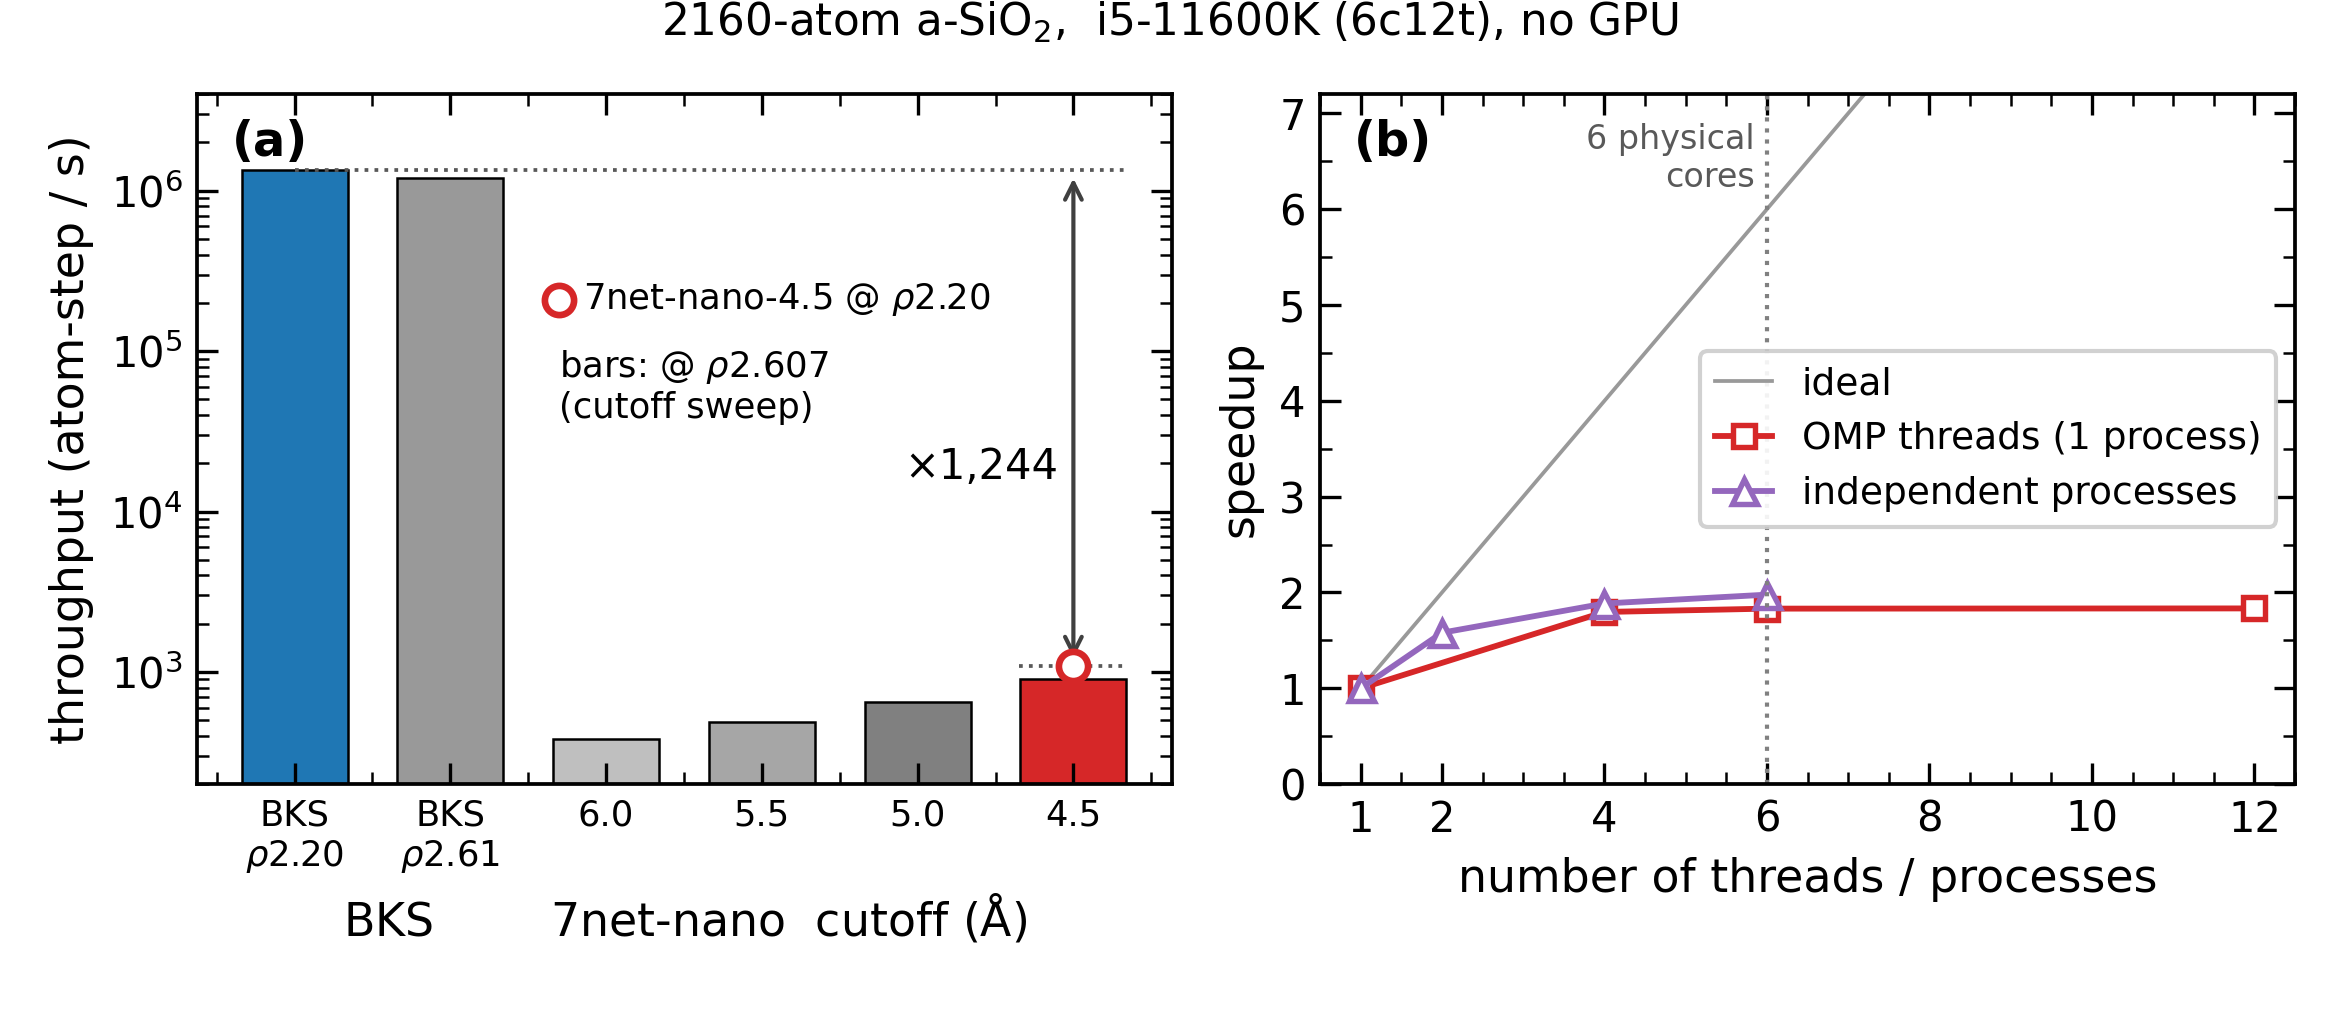
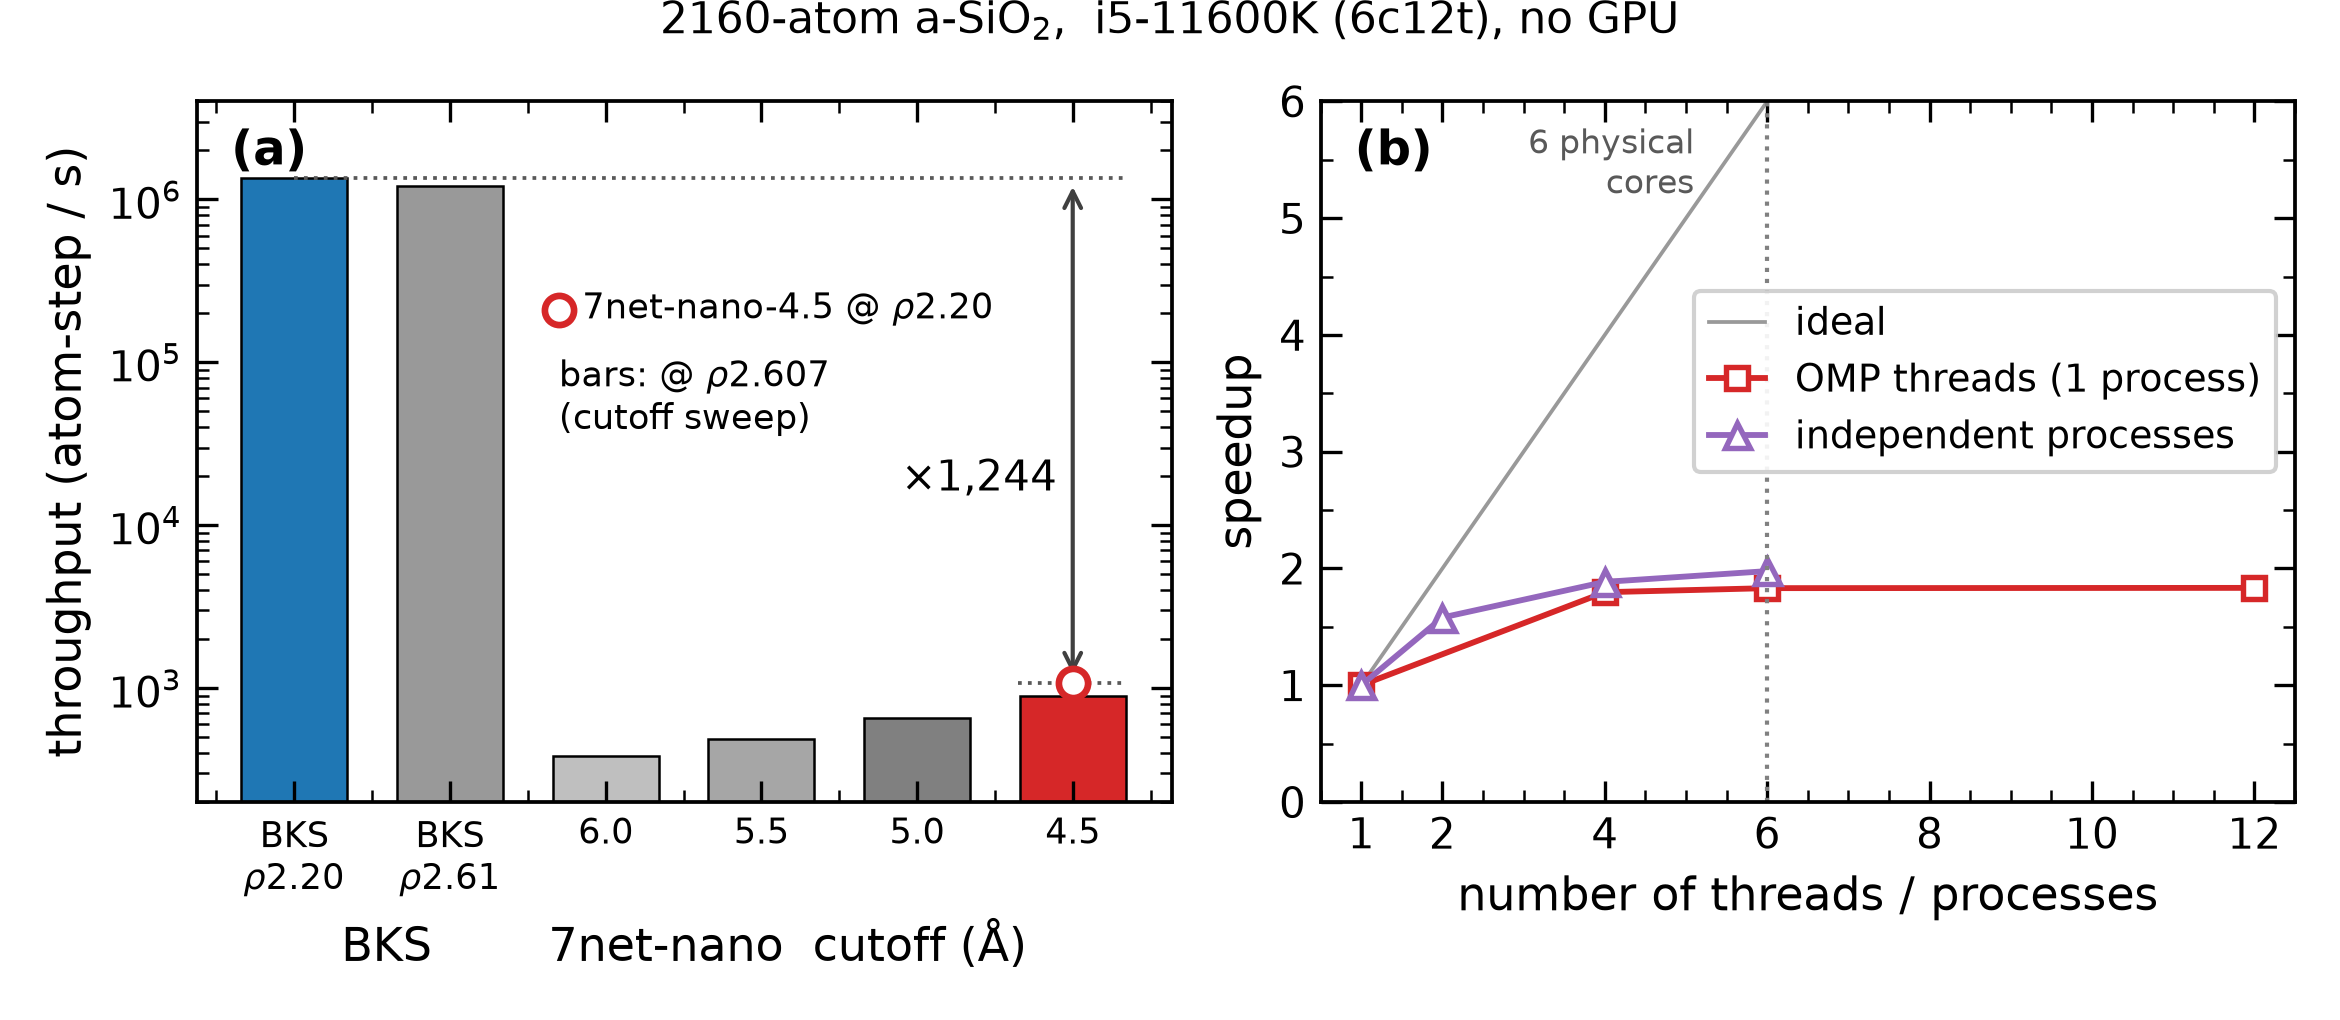
Consistency audit after the tail-on switch: found a v1 leak into RESULTS
Swept the repo for anything left stale by the tail-off -> tail-on change and by
the earlier rho=2.607 -> 2.20 restart. Five real problems.

1. fig_density.py's docstring still said "reported values are tail OFF" while
   the code reads ev_bks_scan_tail.txt. The file contradicted itself. Rewrote
   the docstring to state the tail-on grounds and to record that the original
   tail-off justification was circular.

2. RESULTS.md "lessons" section still claimed BKS is 5x more accurate on K0.
   With the tail on it is 2.7x. Fixed.

3. THE REAL FIND: RESULTS.md section 3(b) -- "the density drop is entirely
   explained by bond length, predicted -4.28 % vs measured -4.31 %, agreeing to
   0.03 %p" -- was carrying numbers from the DISCARDED rho=2.607 work
   (s2_relax/NOTE.md S2-3). There the comparison was Si-O 1.6123 -> 1.6360 with
   density 2.6071 -> 2.4948, i.e. the same structure relaxed by 7net at two
   volumes at 0 K. That is a clean apples-to-apples test and the claim was
   sound in its own context.

   The current section 3(b) is a completely different comparison: 300 K MD g(r)
   peak positions against 0 K equilibrium densities of two different potentials.
   The v1 numbers do not transfer. Recomputed honestly:

       prediction from mean Si-O (1.6147 -> 1.6369)   -4.01 %
       prediction from peak Si-O (1.605  -> 1.635 )   -5.40 %
       measured (2.3442 -> 2.2185)                    -5.36 %

   So the prediction swings 1.4 %p depending on which equally arbitrary
[…]

diff --git a/04_analysis/src/fig_speed.py b/04_analysis/src/fig_speed.py
@@ -77,11 +77,11 @@ b.plot(THREADS[0], THREADS[1] / THREADS[1][0], "s-", ms=5.5, c="tab:red",
 b.plot(REPLICA[0], REPLICA[1] / REPLICA[1][0], "^-", ms=6, c="tab:purple",
        mfc="w", mew=1.3, label="independent processes")
 b.axvline(6, ls=":", lw=1.0, c="0.5")
-b.text(5.85, 6.9, "6 physical\ncores", fontsize=8, c="0.35", va="top", ha="right")
-b.set_xlim(0.5, 12.5); b.set_ylim(0, 7.2)
+b.text(5.1, 5.8, "6 physical\ncores", fontsize=8, c="0.35", va="top", ha="right")
+b.set_xlim(0.5, 12.5); b.set_ylim(0, 6)
 b.set_xlabel("number of threads / processes"); b.set_ylabel("speedup")
 b.set_xticks([1, 2, 4, 6, 8, 10, 12])
-b.legend(loc="center right", framealpha=0.9)
+b.legend(bbox_to_anchor = (1, 0.6), loc="center right", framealpha=0.9)
 b.text(0.035, 0.91, "(b)", transform=b.transAxes, fontsize=11.5, fontweight="bold")
 
 for a_ in ax:

diff --git a/05_doc/RESULTS.md b/05_doc/RESULTS.md
@@ -188,9 +188,32 @@ tail ON을 택하는 적극적 근거:
 **(a) 결합길이는 PBE를 재현한다.** BKS 1.605 → 7net 1.635 (+1.9 %), AIMD 1.630.
 PBE 계열의 결합 과대추정을 그대로 물려받았다. MTP(npj 2024, PBE)의 1.63과도 일치.
 
-**(b) 밀도 하락은 전부 결합길이로 설명된다.** ρ ∝ d⁻³ 예측 −4.28 % vs 실측 −4.31 %
-(0.03 %p 차이). 사면체가 길어진 결합을 각도로 흡수해 `2d·sin(θ/2)` = Si–Si 거리를
-0.3 % 이내로 보존한다.
+**(b) 밀도 하락의 방향과 크기는 결합길이 신장으로 설명된다 — 단 정밀 일치를 주장하지 말 것.**
+
+ρ ∝ d⁻³ 예측이 **어느 d를 쓰느냐로 1.4 %p 움직인다**:
+
+| 예측 근거 | d(BKS) → d(7net) | ρ ∝ d⁻³ |
+|---|---|---|
+| 평균 Si–O (`*_stats.dat`) | 1.6147 → 1.6369 | −4.01 % |
+| 1피크 위치 (위 표) | 1.605 → 1.635 | −5.40 % |
+| **실측** (2.3442 → 2.2185) | | **−5.36 %** |
+
+큰 그림은 맞다(수 % 감소, 같은 부호, 같은 자릿수). 하지만 입력 선택 하나로 예측이
+−4.0 ~ −5.4 % 사이를 오가므로 **"결합길이만으로 완전히 설명된다"는 강한 주장은 못 한다.**
+
+> ⚠ **이전 판 정정 — 폐기된 v1 수치가 새어들어와 있었다.**
+> "예측 −4.28 % vs 실측 −4.31 %(0.03 %p 차이)"는 **ρ = 2.607 네트워크(폐기)** 의 결과다
+> (`02_run/s2_relax/NOTE.md` S2-3). 거기서는 Si–O 1.6123 → 1.6360, 밀도 2.6071 → 2.4948 로
+> **같은 구조를 7net으로 두 부피에서 이완한 0 K 비교**였고 그 맥락에서는 타당했다.
+> 현행 §3(b)는 **300 K MD의 g(r) 피크**와 **서로 다른 두 포텐셜의 0 K 평형밀도**를 잇는
+> 전혀 다른 비교다. v1 숫자를 그대로 옮겨 쓸 수 없다.
+>
+> ⚠ **더 근본적인 문제**: g(r)은 두 방법 모두 **ρ = 2.20 고정**에서 잰 값이고
+> 평형밀도는 별도의 0 K E–V 스캔에서 나온다. 서로 다른 계산의 양을 d⁻³로 잇는 건
+> 어디까지나 **휴리스틱**이다. 실제로 (d)의 Si–Si 1피크는 3.155 → 3.135 (−0.63 %)로
+> 거의 보존되는데, 망을 잇는 거리가 보존되면서 평형부피만 5 % 변한다는 건
+> 단순 등방 스케일링으로 설명되지 않는다. **각도 자유도가 흡수한다**가 정성적 답이지만
+> 정량 검증은 안 했다.
 
 **(c) O–Si–O는 평균으로는 변별력이 없다.** 세 방법이 109.38 / 109.41 / 109.47로 0.09° 안에 든다.
 정사면체 기하가 109.47°로 못 박기 때문이다. **차이는 폭에 있다** —
@@ -314,7 +337,7 @@ of the first peak"* 와 같은 방향.
    → **증상을 보고 추측하기 전에 잔차의 구조부터 볼 것.** 상수면 계통오차, 무작위면 잡음.
 8. **MLIP의 매끄러운 cutoff는 정확도가 아니라 미분가능성의 문제다.** 7net이 E–V에서
    BKS보다 18배 매끄러운 건 물리를 더 잘 알아서가 아니라 cutoff 함수 설계 덕이다.
-   반대로 K₀는 BKS가 5배 정확했다. 두 사실을 같이 말해야 정직한 비교다.
+   반대로 K₀는 BKS가 2.7배 정확했다. 두 사실을 같이 말해야 정직한 비교다.
 
 ---
 

diff --git a/05_doc/STATUS.md b/05_doc/STATUS.md
@@ -103,12 +103,17 @@ BKS       :  1.35 Matom-step/s @ρ=2.20 (6랭크)  → 배수 1,244×
 
 ## 남은 일
 
-1. `04_analysis/src/old_delete/` 삭제 (노트북에서 `rm -rf`)
+1. `04_analysis/src/old_delete/`, `04_analysis/fig/old_delete/` 삭제 (노트북에서 `rm -rf`)
+   그리고 `02_run/s2_relax/ev_bks_f1.04.log`, `ev_bks_f1.06.log` (1차 스캔 잔재)
 2. 그림 라벨 최종 점검 — `7net-nano-4.5` 로 통일 완료, 렌더 확인 필요
-3. (선택) **S(q) 계산** — g(r) 푸리에 변환으로 FSDP를 실험 1.52 Å⁻¹ 과 비교. 추가 계산 불필요
-4. (선택) **excess energy** — Erhard et al.의 주요 지표(실험 78–131 meV/SiO₂).
+3. **§3(b) 밀도-결합길이 논증 재검토** — ρ ∝ d⁻³ 휴리스틱이 입력(평균 vs 피크 Si–O)에
+   따라 −4.0 ~ −5.4 % 를 오간다. 이전 판의 "0.03 %p 일치" 는 재현 불가라 삭제했다.
+   제대로 하려면 각 부피에서의 결합길이·각도 변화를 직접 재야 한다 (E–V 스캔 구조에서
+   추출 가능, 추가 MD 불필요). 안 할 거면 지금의 정성 서술로 두면 된다.
+4. (선택) **S(q) 계산** — g(r) 푸리에 변환으로 FSDP를 실험 1.52 Å⁻¹ 과 비교. 추가 계산 불필요
+5. (선택) **excess energy** — Erhard et al.의 주요 지표(실험 78–131 meV/SiO₂).
    α-quartz 단일점 하나만 추가하면 됨 (7net 으로 1분)
-5. (선택) **7net 어닐링** — 중거리 구조를 마저 고치려면 필요. 20 ps에 11시간
+6. (선택) **7net 어닐링** — 중거리 구조를 마저 고치려면 필요. 20 ps에 11시간
 
 ## 참고 문서
 

diff --git a/02_run/s2_relax/NOTE.md b/02_run/s2_relax/NOTE.md
@@ -1,8 +1,23 @@
 # 02_run/s2_relax — NOTE
 
 모델: `7net-nano-4.5` (`01_input/pot/deployed_nano_4.5.pt`), OMP=6 단일 실행, `neighbor 1.0 bin`
-출발 구조: `01_input/sio2_quenched.data` (BKS melt-quench, 2160원자, V=27554.315 Å³, ρ=2.60707)
 질량합 43,260.70 amu → **ρ[g/cm³] = 71,836.5 / V[Å³]**
+
+---
+
+# ⚠ 읽는 순서 주의 — 이 파일은 두 세대가 섞여 있다
+
+| 절 | 출발 구조 | 상태 |
+|---|---|---|
+| **S2-1 ~ S2-4** | `01_input/sio2_quenched.data` (ρ = **2.607**) | ❌ **폐기** (`../_v1_superseded/README.md`) |
+| **S2′-1 이후** | `../s0_requench/sio2_bks220.data` (ρ = **2.20**) | ✅ **현행** |
+
+**S2-1~S2-4 의 수치를 현행 결과로 인용하지 말 것.** ρ=2.607 네트워크는 녹지 않은
+melt-quench 산물이라 폐기됐다. 특히 자주 새어나간 것:
+
+- ρ₀ = 2.4948, K₀(구), Si–O 1.6123/1.6360, **"밀도 하락 −4.31 %, d⁻³ 예측 −4.28 %"**
+  → 이 −4.28/−4.31 쌍이 실제로 `05_doc/RESULTS.md` §3(b) 에 v1 값 그대로 실려 있었고
+    2026-08-13 에 걷어냈다. **현행 값은 전혀 다르다** (실측 −5.36 %, 예측 −4.0~−5.4 %).
 
 ---
 

diff --git a/02_run/s0_requench/NOTE.md b/02_run/s0_requench/NOTE.md
@@ -1,0 +1,24 @@
+
+---
+
+## S0-b · 300 K NPT 재실행 (tail 보정 on) — 2026-08-13
+
+`in.npt_tail` — `sio2_bks220.data`(300 K NVT 산물)에서 NPT 단계만 다시.
+20 ps 재평형 + 100 ps 생산, 3분 53초 (6랭크).
+
+| | tail OFF (원 런) | **tail ON (현행)** |
+|---|---|---|
+| 300 K NPT ρ | 2.3119 | **2.3401** (100 ps 평균) |
+| 0 K virial ρ₀ | 2.3151 | **2.3442** |
+| 둘의 차이 | 0.14 % | 0.17 % |
+
+**왜 다시 돌렸나.** EOS 보고 관례를 tail OFF → ON 으로 바꿨는데(경위는
+`../s2_relax/NOTE.md` 와 `05_doc/RESULTS.md` §2), **NPT 는 압력으로 barostat 을
+구동하므로 tail 유무에 실제로 반응한다.** E–V 스캔과 달리 결과가 바뀐다.
+(반대로 E–V 최소화는 tail 이 힘에 기여하지 않아 구조가 비트 단위로 동일했다.)
+
+**판정.** 두 관례 모두 0 K virial 과 0.15 % 수준으로 맞는다 → 관례가 바뀌어도
+내부 정합은 유지된다. 열팽창은 여전히 무시할 수준.
+
+**산물.** `sio2_bks_npt300_tail.data`, `npt_tail_avg.dat`, `npt_tail.log`.
+구 `sio2_bks_npt300.data`(tail off)는 비교용으로 남겨둠.
